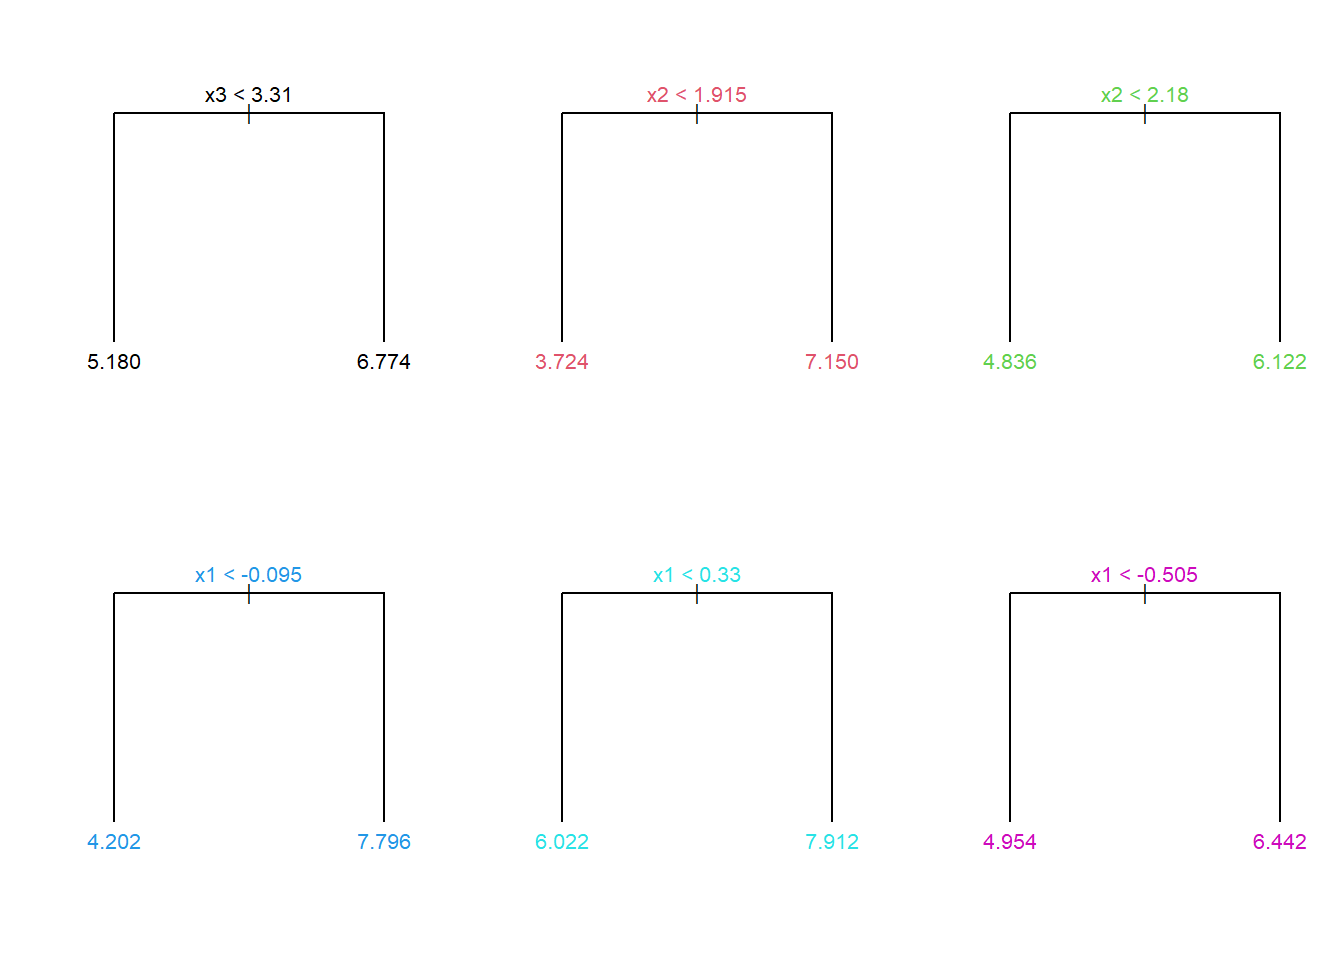
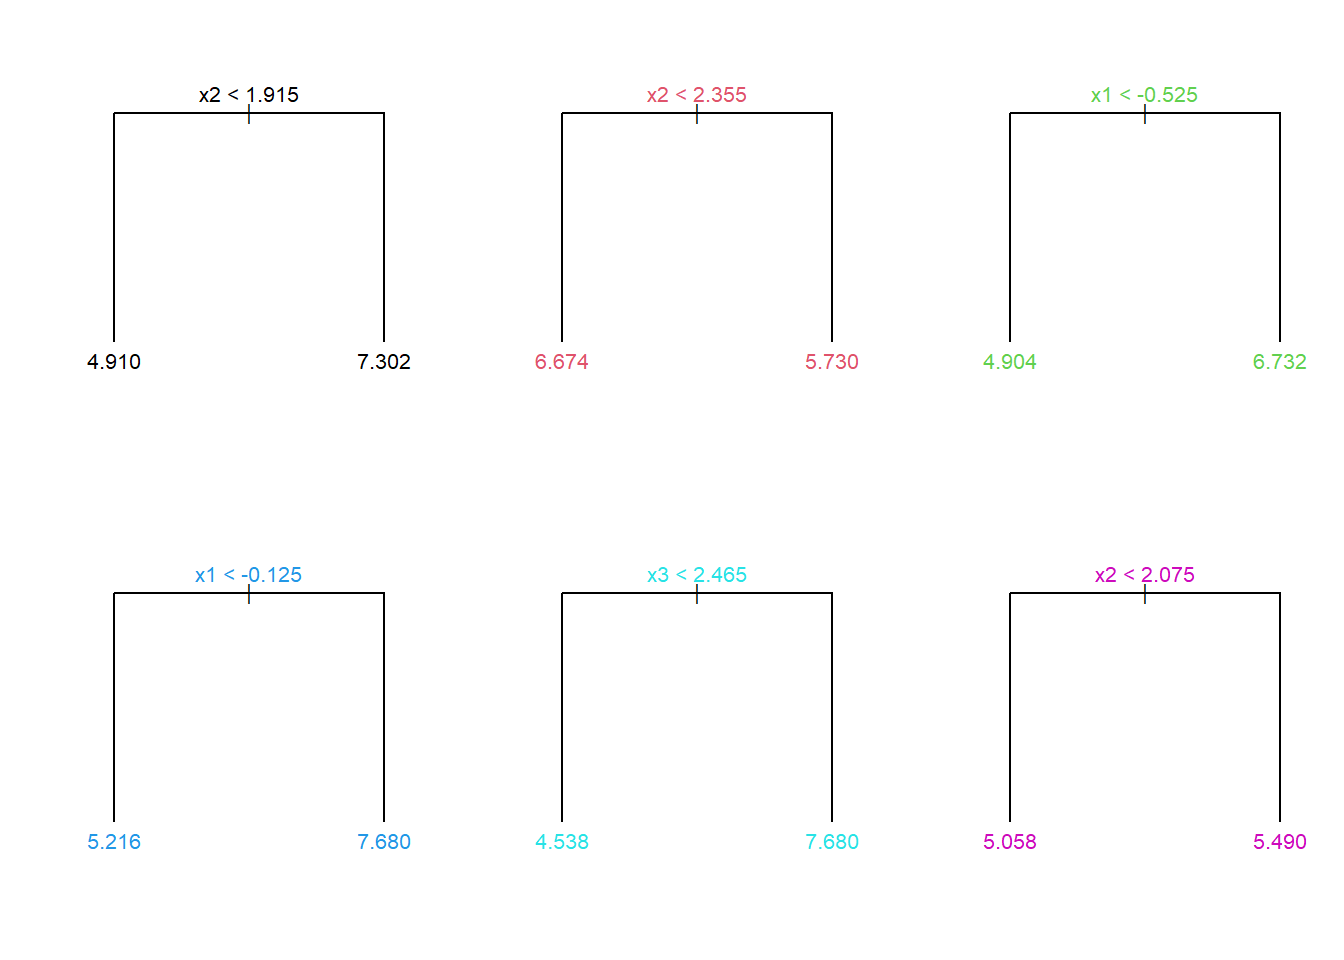
Add files via upload

diff --git a/AS_reg_tree.html b/AS_reg_tree.html
@@ -175,7 +175,7 @@ f(\mathbf{x}) = T(\mathbf{x},R_j,\gamma_j) = \sum_{j=1}^J \gamma_jI(\mathbf{x} \
 <section id="bagged-trees-ou-bagging" class="level3">
 <h3 class="anchored" data-anchor-id="bagged-trees-ou-bagging"><em>Bagged trees ou bagging</em></h3>
 <p><em>Bagged trees ou bagging</em> ou, em português, “árvores ensacadas” é um método baseado em árvore de decisão que pode ser aplicado tanto para regressão quanto para classificação. O método consiste em agregar várias árvores de decisão as quais são estimadas a partir de reamostragem por reposição dos dados de treino. Ou seja, antes de estimar cada árvore, realiza-se um sorteio por reposição dos dados de treino, procedimento este chamado de bootstrap e, posteriormente estima-se a árvore para cada amostra “manipulada”. O modelo final é a média de todas as árvores obtidas via bootstrap. Geralmente um número alto de reamostragens é realizado e, portanto, um número alto de árvores é obtido, resultando em um modelo com maior flexibilidade, porém mais difícil de interpretar. O nome <em>bagging</em> vem de <em>bootstrap aggregated</em> ou agregação por bootstrap.</p>
-<p>Considere um conjunto de dados com três preditores e uma variável independente, com <span class="math inline">\(N = 10\)</span> observações, exibido integralmente a seguir.</p>
+<p>Considere um conjunto de dados com <span class="math inline">\(N = 10\)</span> observações, com três preditores e uma variável independente, exibido integralmente a seguir.</p>
 <div class="cell">
 <div class="cell-output-display">
 
@@ -1215,23 +1215,23 @@ f(\mathbf{x}) = T(\mathbf{x},R_j,\gamma_j) = \sum_{j=1}^J \gamma_jI(\mathbf{x} \
 <div class="cell">
 <div class="cell-output-display">
 
-<div id="lgseusefjy" style="padding-left:0px;padding-right:0px;padding-top:10px;padding-bottom:10px;overflow-x:auto;overflow-y:auto;width:auto;height:auto;">
-<style>#lgseusefjy table {
+<div id="kulqaqhrtk" style="padding-left:0px;padding-right:0px;padding-top:10px;padding-bottom:10px;overflow-x:auto;overflow-y:auto;width:auto;height:auto;">
+<style>#kulqaqhrtk table {
   font-family: system-ui, 'Segoe UI', Roboto, Helvetica, Arial, sans-serif, 'Apple Color Emoji', 'Segoe UI Emoji', 'Segoe UI Symbol', 'Noto Color Emoji';
   -webkit-font-smoothing: antialiased;
   -moz-osx-font-smoothing: grayscale;
 }
 
-#lgseusefjy thead, #lgseusefjy tbody, #lgseusefjy tfoot, #lgseusefjy tr, #lgseusefjy td, #lgseusefjy th {
+#kulqaqhrtk thead, #kulqaqhrtk tbody, #kulqaqhrtk tfoot, #kulqaqhrtk tr, #kulqaqhrtk td, #kulqaqhrtk th {
   border-style: none;
 }
 
-#lgseusefjy p {
+#kulqaqhrtk p {
   margin: 0;
   padding: 0;
 }
 
-#lgseusefjy .gt_table {
+#kulqaqhrtk .gt_table {
   display: table;
   border-collapse: collapse;
   line-height: normal;
@@ -1257,12 +1257,12 @@ f(\mathbf{x}) = T(\mathbf{x},R_j,\gamma_j) = \sum_{j=1}^J \gamma_jI(\mathbf{x} \
   border-left-color: #D3D3D3;
 }
 
-#lgseusefjy .gt_caption {
+#kulqaqhrtk .gt_caption {
   padding-top: 4px;
   padding-bottom: 4px;
 }
 
-#lgseusefjy .gt_title {
+#kulqaqhrtk .gt_title {
   color: #333333;
   font-size: 125%;
   font-weight: initial;
@@ -1274,7 +1274,7 @@ f(\mathbf{x}) = T(\mathbf{x},R_j,\gamma_j) = \sum_{j=1}^J \gamma_jI(\mathbf{x} \
   border-bottom-width: 0;
 }
 
-#lgseusefjy .gt_subtitle {
+#kulqaqhrtk .gt_subtitle {
   color: #333333;
   font-size: 85%;
   font-weight: initial;
@@ -1286,7 +1286,7 @@ f(\mathbf{x}) = T(\mathbf{x},R_j,\gamma_j) = \sum_{j=1}^J \gamma_jI(\mathbf{x} \
   border-top-width: 0;
 }
 
-#lgseusefjy .gt_heading {
+#kulqaqhrtk .gt_heading {
   background-color: #FFFFFF;
   text-align: center;
   border-bottom-color: #FFFFFF;
@@ -1298,13 +1298,13 @@ f(\mathbf{x}) = T(\mathbf{x},R_j,\gamma_j) = \sum_{j=1}^J \gamma_jI(\mathbf{x} \
   border-right-color: #D3D3D3;
 }
 
-#lgseusefjy .gt_bottom_border {
+#kulqaqhrtk .gt_bottom_border {
   border-bottom-style: solid;
   border-bottom-width: 2px;
   border-bottom-color: #D3D3D3;
 }
 
-#lgseusefjy .gt_col_headings {
+#kulqaqhrtk .gt_col_headings {
   border-top-style: solid;
   border-top-width: 2px;
   border-top-color: #D3D3D3;
@@ -1319,7 +1319,7 @@ f(\mathbf{x}) = T(\mathbf{x},R_j,\gamma_j) = \sum_{j=1}^J \gamma_jI(\mathbf{x} \
   border-right-color: #D3D3D3;
 }
 
-#lgseusefjy .gt_col_heading {
+#kulqaqhrtk .gt_col_heading {
   color: #333333;
   background-color: #FFFFFF;
   font-size: 100%;
@@ -1339,7 +1339,7 @@ f(\mathbf{x}) = T(\mathbf{x},R_j,\gamma_j) = \sum_{j=1}^J \gamma_jI(\mathbf{x} \
   overflow-x: hidden;
 }
 
-#lgseusefjy .gt_column_spanner_outer {
+#kulqaqhrtk .gt_column_spanner_outer {
   color: #333333;
   background-color: #FFFFFF;
   font-size: 100%;
@@ -1351,15 +1351,15 @@ f(\mathbf{x}) = T(\mathbf{x},R_j,\gamma_j) = \sum_{j=1}^J \gamma_jI(\mathbf{x} \
   padding-right: 4px;
 }
 
-#lgseusefjy .gt_column_spanner_outer:first-child {
+#kulqaqhrtk .gt_column_spanner_outer:first-child {
   padding-left: 0;
 }
 
-#lgseusefjy .gt_column_spanner_outer:last-child {
+#kulqaqhrtk .gt_column_spanner_outer:last-child {
   padding-right: 0;
 }
 
-#lgseusefjy .gt_column_spanner {
+#kulqaqhrtk .gt_column_spanner {
   border-bottom-style: solid;
   border-bottom-width: 2px;
   border-bottom-color: #D3D3D3;
@@ -1371,11 +1371,11 @@ f(\mathbf{x}) = T(\mathbf{x},R_j,\gamma_j) = \sum_{j=1}^J \gamma_jI(\mathbf{x} \
   width: 100%;
 }
 
-#lgseusefjy .gt_spanner_row {
+#kulqaqhrtk .gt_spanner_row {
   border-bottom-style: hidden;
 }
 
-#lgseusefjy .gt_group_heading {
+#kulqaqhrtk .gt_group_heading {
   padding-top: 8px;
   padding-bottom: 8px;
   padding-left: 5px;
@@ -1401,7 +1401,7 @@ f(\mathbf{x}) = T(\mathbf{x},R_j,\gamma_j) = \sum_{j=1}^J \gamma_jI(\mathbf{x} \
   text-align: left;
 }
 
-#lgseusefjy .gt_empty_group_heading {
+#kulqaqhrtk .gt_empty_group_heading {
   padding: 0.5px;
   color: #333333;
   background-color: #FFFFFF;
@@ -1416,15 +1416,15 @@ f(\mathbf{x}) = T(\mathbf{x},R_j,\gamma_j) = \sum_{j=1}^J \gamma_jI(\mathbf{x} \
   vertical-align: middle;
 }
 
-#lgseusefjy .gt_from_md > :first-child {
+#kulqaqhrtk .gt_from_md > :first-child {
   margin-top: 0;
 }
 
-#lgseusefjy .gt_from_md > :last-child {
+#kulqaqhrtk .gt_from_md > :last-child {
   margin-bottom: 0;
 }
 
-#lgseusefjy .gt_row {
+#kulqaqhrtk .gt_row {
   padding-top: 8px;
   padding-bottom: 8px;
   padding-left: 5px;
@@ -1443,7 +1443,7 @@ f(\mathbf{x}) = T(\mathbf{x},R_j,\gamma_j) = \sum_{j=1}^J \gamma_jI(\mathbf{x} \
   overflow-x: hidden;
 }
 
-#lgseusefjy .gt_stub {
+#kulqaqhrtk .gt_stub {
   color: #333333;
   background-color: #FFFFFF;
   font-size: 100%;
@@ -1456,7 +1456,7 @@ f(\mathbf{x}) = T(\mathbf{x},R_j,\gamma_j) = \sum_{j=1}^J \gamma_jI(\mathbf{x} \
   padding-right: 5px;
 }
 
-#lgseusefjy .gt_stub_row_group {
+#kulqaqhrtk .gt_stub_row_group {
   color: #333333;
   background-color: #FFFFFF;
   font-size: 100%;
@@ -1470,15 +1470,15 @@ f(\mathbf{x}) = T(\mathbf{x},R_j,\gamma_j) = \sum_{j=1}^J \gamma_jI(\mathbf{x} \
   vertical-align: top;
 }
 
-#lgseusefjy .gt_row_group_first td {
+#kulqaqhrtk .gt_row_group_first td {
   border-top-width: 2px;
 }
 
-#lgseusefjy .gt_row_group_first th {
+#kulqaqhrtk .gt_row_group_first th {
   border-top-width: 2px;
 }
 
-#lgseusefjy .gt_summary_row {
+#kulqaqhrtk .gt_summary_row {
   color: #333333;
   background-color: #FFFFFF;
   text-transform: inherit;
@@ -1488,16 +1488,16 @@ f(\mathbf{x}) = T(\mathbf{x},R_j,\gamma_j) = \sum_{j=1}^J \gamma_jI(\mathbf{x} \
   padding-right: 5px;
 }
 
-#lgseusefjy .gt_first_summary_row {
+#kulqaqhrtk .gt_first_summary_row {
   border-top-style: solid;
   border-top-color: #D3D3D3;
 }
 
-#lgseusefjy .gt_first_summary_row.thick {
+#kulqaqhrtk .gt_first_summary_row.thick {
   border-top-width: 2px;
 }
 
-#lgseusefjy .gt_last_summary_row {
+#kulqaqhrtk .gt_last_summary_row {
   padding-top: 8px;
   padding-bottom: 8px;
   padding-left: 5px;
@@ -1507,7 +1507,7 @@ f(\mathbf{x}) = T(\mathbf{x},R_j,\gamma_j) = \sum_{j=1}^J \gamma_jI(\mathbf{x} \
   border-bottom-color: #D3D3D3;
 }
 
-#lgseusefjy .gt_grand_summary_row {
+#kulqaqhrtk .gt_grand_summary_row {
   color: #333333;
   background-color: #FFFFFF;
   text-transform: inherit;
@@ -1517,7 +1517,7 @@ f(\mathbf{x}) = T(\mathbf{x},R_j,\gamma_j) = \sum_{j=1}^J \gamma_jI(\mathbf{x} \
   padding-right: 5px;
 }
 
-#lgseusefjy .gt_first_grand_summary_row {
+#kulqaqhrtk .gt_first_grand_summary_row {
   padding-top: 8px;
   padding-bottom: 8px;
   padding-left: 5px;
@@ -1527,7 +1527,7 @@ f(\mathbf{x}) = T(\mathbf{x},R_j,\gamma_j) = \sum_{j=1}^J \gamma_jI(\mathbf{x} \
   border-top-color: #D3D3D3;
 }
 
-#lgseusefjy .gt_last_grand_summary_row_top {
+#kulqaqhrtk .gt_last_grand_summary_row_top {
   padding-top: 8px;
   padding-bottom: 8px;
   padding-left: 5px;
@@ -1537,11 +1537,11 @@ f(\mathbf{x}) = T(\mathbf{x},R_j,\gamma_j) = \sum_{j=1}^J \gamma_jI(\mathbf{x} \
   border-bottom-color: #D3D3D3;
 }
 
-#lgseusefjy .gt_striped {
+#kulqaqhrtk .gt_striped {
   background-color: rgba(128, 128, 128, 0.05);
 }
 
-#lgseusefjy .gt_table_body {
+#kulqaqhrtk .gt_table_body {
   border-top-style: solid;
   border-top-width: 2px;
   border-top-color: #D3D3D3;
@@ -1550,7 +1550,7 @@ f(\mathbf{x}) = T(\mathbf{x},R_j,\gamma_j) = \sum_{j=1}^J \gamma_jI(\mathbf{x} \
   border-bottom-color: #D3D3D3;
 }
 
-#lgseusefjy .gt_footnotes {
+#kulqaqhrtk .gt_footnotes {
   color: #333333;
   background-color: #FFFFFF;
   border-bottom-style: none;
@@ -1564,7 +1564,7 @@ f(\mathbf{x}) = T(\mathbf{x},R_j,\gamma_j) = \sum_{j=1}^J \gamma_jI(\mathbf{x} \
   border-right-color: #D3D3D3;
 }
 
-#lgseusefjy .gt_footnote {
+#kulqaqhrtk .gt_footnote {
   margin: 0px;
   font-size: 90%;
   padding-top: 4px;
@@ -1573,7 +1573,7 @@ f(\mathbf{x}) = T(\mathbf{x},R_j,\gamma_j) = \sum_{j=1}^J \gamma_jI(\mathbf{x} \
   padding-right: 5px;
 }
 
-#lgseusefjy .gt_sourcenotes {
+#kulqaqhrtk .gt_sourcenotes {
   color: #333333;
   background-color: #FFFFFF;
   border-bottom-style: none;
@@ -1587,7 +1587,7 @@ f(\mathbf{x}) = T(\mathbf{x},R_j,\gamma_j) = \sum_{j=1}^J \gamma_jI(\mathbf{x} \
   border-right-color: #D3D3D3;
 }
 
-#lgseusefjy .gt_sourcenote {
+#kulqaqhrtk .gt_sourcenote {
   font-size: 90%;
   padding-top: 4px;
   padding-bottom: 4px;
@@ -1595,63 +1595,63 @@ f(\mathbf{x}) = T(\mathbf{x},R_j,\gamma_j) = \sum_{j=1}^J \gamma_jI(\mathbf{x} \
   padding-right: 5px;
 }
 
-#lgseusefjy .gt_left {
+#kulqaqhrtk .gt_left {
   text-align: left;
 }
 
-#lgseusefjy .gt_center {
+#kulqaqhrtk .gt_center {
   text-align: center;
 }
 
-#lgseusefjy .gt_right {
+#kulqaqhrtk .gt_right {
   text-align: right;
   font-variant-numeric: tabular-nums;
 }
 
-#lgseusefjy .gt_font_normal {
+#kulqaqhrtk .gt_font_normal {
   font-weight: normal;
 }
 
-#lgseusefjy .gt_font_bold {
+#kulqaqhrtk .gt_font_bold {
   font-weight: bold;
 }
 
-#lgseusefjy .gt_font_italic {
+#kulqaqhrtk .gt_font_italic {
   font-style: italic;
 }
 
-#lgseusefjy .gt_super {
+#kulqaqhrtk .gt_super {
   font-size: 65%;
 }
 
-#lgseusefjy .gt_footnote_marks {
+#kulqaqhrtk .gt_footnote_marks {
   font-size: 75%;
   vertical-align: 0.4em;
   position: initial;
 }
 
-#lgseusefjy .gt_asterisk {
+#kulqaqhrtk .gt_asterisk {
   font-size: 100%;
   vertical-align: 0;
 }
 
-#lgseusefjy .gt_indent_1 {
+#kulqaqhrtk .gt_indent_1 {
   text-indent: 5px;
 }
 
-#lgseusefjy .gt_indent_2 {
+#kulqaqhrtk .gt_indent_2 {
   text-indent: 10px;
 }
 
-#lgseusefjy .gt_indent_3 {
+#kulqaqhrtk .gt_indent_3 {
   text-indent: 15px;
 }
 
-#lgseusefjy .gt_indent_4 {
+#kulqaqhrtk .gt_indent_4 {
   text-indent: 20px;
 }
 
-#lgseusefjy .gt_indent_5 {
+#kulqaqhrtk .gt_indent_5 {
   text-indent: 25px;
 }
 </style>
@@ -1674,7 +1674,7 @@ f(\mathbf{x}) = T(\mathbf{x},R_j,\gamma_j) = \sum_{j=1}^J \gamma_jI(\mathbf{x} \
 </div>
 </div>
 </div>
-<p>Considerando as 6 árvores obtidas anteriormente, as previsãos destas para tal observação são: 5.060, 7.028, 6.608, 6.378, 7.210 e 7.036. O modelo <em>bagging</em> retorna como resultado a média das previsões das árvores, isto é, <span class="math inline">\(\hat{y} = \frac{1}{6}\sum_{i=b}^6 T(\mathbf{x}_0)\)</span> = 6.55.</p>
+<p>Considerando as 6 árvores obtidas anteriormente, as previsãos destas para tal observação são: 7.302, 5.730, 6.732, 7.680, 7.680 e 5.490. O modelo <em>bagging</em> retorna como resultado a média das previsões das árvores, isto é, <span class="math inline">\(\hat{y} = \frac{1}{6}\sum_{i=b}^6 T(\mathbf{x}_0)\)</span> = 6.769.</p>
 <p>Para o conjunto de dados Hitters seja um modelo de regressão por <em>Bagging</em> considerando duas variáveis, <code>Cruns</code> e <code>RBI</code>. O modelo plotado é muito mais complexo e pretende apresentar uma melhor acuracidade que um modelo baseado em árvore por justamente congregar diversas árvores baseadas na reamostragem dos dados de treino. Porém, Como tais modelos apresentam maior variância que os modelos de árvore para regressão, é importante avaliar se há sobreajuste.</p>
 <div class="cell">
 <div class="cell-output-display">
